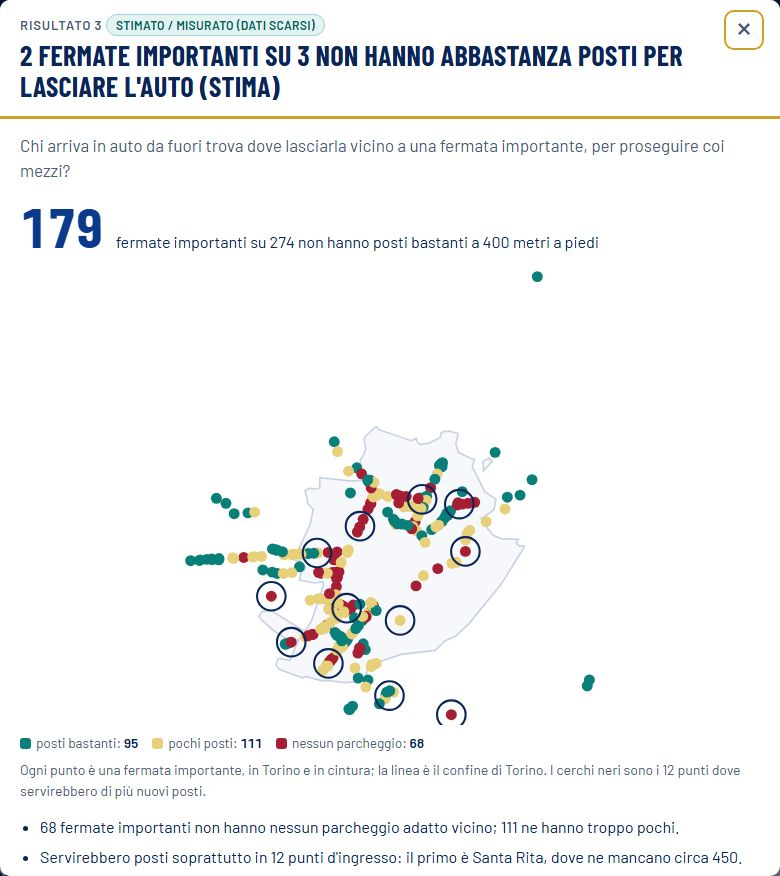
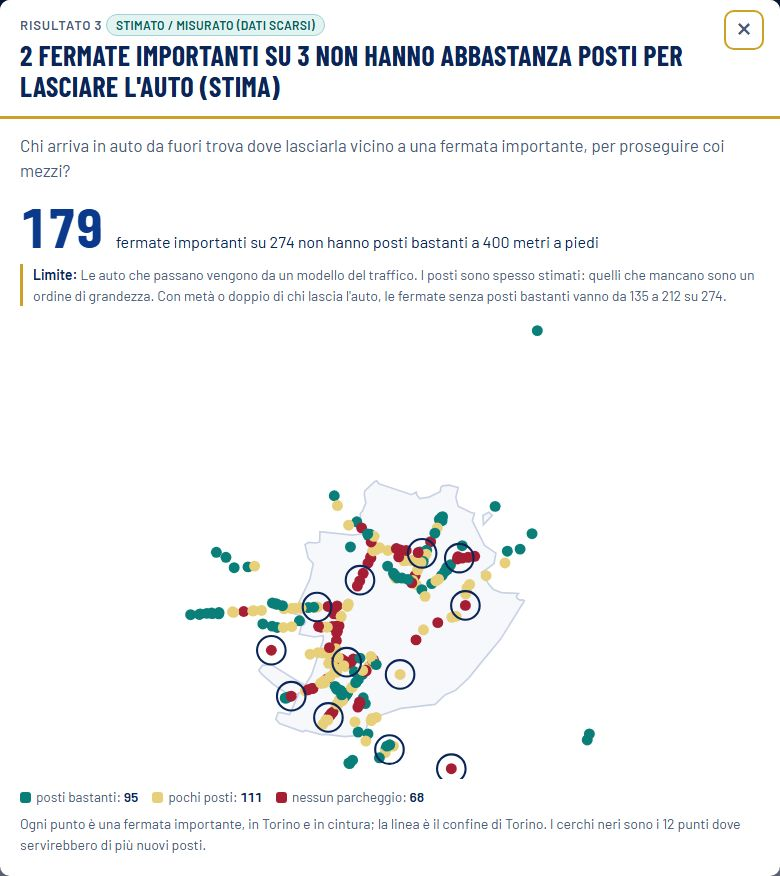
L10: limite visibile, periodo nel piede, contatori coerenti, distacco nella gara, barre uguali, cursore in oro, riquadri 3+2, colori in METODO, via Condividi

diff --git a/risultati.html b/risultati.html
@@ -105,7 +105,7 @@ function etichetta(s){
 function mostraGalleria(){
   const g = $("galleria");
   if(!schede.length){
-    g.innerHTML = `<div class="vuoto" style="grid-column:1/-1">${T("Nessun risultato trovato.", "No results found.")}</div>`;
+    g.innerHTML = `<div class="vuoto" style="flex:1 1 100%">${T("Nessun risultato trovato.", "No results found.")}</div>`;
     return;
   }
   g.innerHTML = schede.map((s, i) => {
@@ -128,16 +128,24 @@ const TONO_COL = {verde:"var(--vr-verde)", rosso:"var(--vr-rosso)", giallo:"var(
 const TONO_TESTO = {verde:"var(--su-verde)", rosso:"var(--su-rosso)", giallo:"var(--su-giallo)", blu:"var(--su-giallo)", arancio:"var(--su-giallo)"};
 const PALETTE_PILA = ["var(--neu-blu)", "var(--neu-arancio)", "var(--pila-3)", "var(--pila-4)", "var(--pila-5)"];
 
+/* testo del numero di una barra, e larghezza (in caratteri) della colonna dei numeri: la stessa in tutte le righe del grafico */
+function testoValore(g, v){
+  const sep = g.forbice ? " – " : " → ";
+  return v.testo ? esc(v.testo)
+    : (typeof v.prima === "number" ? conUnita(v.prima, g.unita === "%" ? "%" : "") + sep : "") + conUnita(v.valore, g.unita === "%" ? "%" : "");
+}
+function larghezzaValori(g, voci){
+  return Math.max(3, ...voci.map(v => testoValore(g, v).replace(/&[a-z#0-9]+;/g, "x").length));
+}
 function graficoBarre(g){
   const voci = g.voci || [];
   const max = g.max || Math.max(1, ...voci.flatMap(v => [Math.abs(v.valore||0), Math.abs(v.prima||0)]));
+  const larghezza = g.larghezza || larghezzaValori(g, voci);
   const righe = voci.map(v => {
     const pct = x => Math.max(1.5, Math.abs(x) / max * 100);
     const haPrima = typeof v.prima === "number";
-    const sep = g.forbice ? " – " : " → ";
-    const val = v.testo ? esc(v.testo)
-      : (haPrima ? conUnita(v.prima, g.unita === "%" ? "%" : "") + sep : "") + conUnita(v.valore, g.unita === "%" ? "%" : "");
-    return `<div class="barra-riga">
+    const val = testoValore(g, v);
+    return `<div class="barra-riga" style="--cv:${Math.ceil(larghezza * 1.12)}ch">
       <span class="barra-etichetta" title="${esc(v.label)}">${v.link ? `<a href="${esc(v.link)}" class="barra-link">${esc(v.label)}</a>` : esc(v.label)}</span>
       <span class="barra-traccia">
         ${haPrima ? `<span style="width:${pct(v.prima)}%;background:var(--neu-blu-chiaro)"></span>` : ""}
@@ -181,7 +189,8 @@ function unitaHtml(u){
 
 /* barre a gruppi: un titolo per gruppo (es. fascia) e sotto le sue barre (es. le due stime), tutte sulla stessa scala */
 function graficoBarreGruppi(g){
-  return (g.gruppi || []).map(gr => `<div class="etichetta-gruppo">${esc(gr.label)}</div>` + graficoBarre({voci: gr.voci, unita: g.unita, max: g.max})).join("");
+  const tuttiValori = larghezzaValori(g, (g.gruppi || []).flatMap(gr => gr.voci || []));
+  return (g.gruppi || []).map(gr => `<div class="etichetta-gruppo">${esc(gr.label)}</div>` + graficoBarre({voci: gr.voci, unita: g.unita, max: g.max, larghezza: tuttiValori})).join("");
 }
 
 function graficoPila(g){
@@ -275,6 +284,12 @@ function grafico(g){
 function elenco(arr, tag){ return Array.isArray(arr) && arr.length ? `<${tag}>${arr.map(x => `<li>${esc(x)}</li>`).join("")}</${tag}>` : ""; }
 function parte(titolo, html){ return html ? `<details class="parte"><summary>${titolo}</summary>${html}</details>` : ""; }
 
+/* una riga di limite sotto il numero grande: il primo dei limiti della scheda (lo script della scheda lo mette in testa) */
+function limiteVisibile(f){
+  const l = Array.isArray(f.limiti) && f.limiti[0];
+  return l ? `<p class="limite-vis"><b>${T("Limite", "Limit")}:</b> ${esc(l)}</p>` : "";
+}
+
 let corrente = -1;
 function apri(i){
   corrente = i;
@@ -282,7 +297,7 @@ function apri(i){
   $("finMeta").innerHTML = `${T("Risultato", "Result")} ${esc(numeroDi(s))} ${etichetta(s)}`;
   $("finTitolo").textContent = f.titolo;
   const mappa = `<div class="azioni">${f.mappa
-    ? `<a class="btn primario" href="mappa_torino.html#tema=${encodeURIComponent(f.mappa.id)}${f.mappa.vista ? "&vista=" + encodeURIComponent(f.mappa.vista) : ""}">${T("Vedi sulla mappa", "See on the map")}</a>` : ""}<button type="button" class="btn" id="finCondividi">${T("Condividi", "Share")}</button></div>`;
+    ? `<a class="btn primario" href="mappa_torino.html#tema=${encodeURIComponent(f.mappa.id)}${f.mappa.vista ? "&vista=" + encodeURIComponent(f.mappa.vista) : ""}">${T("Vedi sulla mappa", "See on the map")}</a>` : ""}</div>`;
   const criteri = Array.isArray(f.criteri) && f.criteri.length
     ? `<div class="sottotitolo">${T("I criteri", "The criteria")}</div><table class="param">${f.criteri.map(c => `<tr><td>${esc(c[0])}</td><td>${esc(c[1])}</td></tr>`).join("")}</table>` : "";
   const confronto = Array.isArray(f.confronto) && f.confronto.length
@@ -295,18 +310,13 @@ function apri(i){
   $("finCorpo").innerHTML =
     `<p class="domanda">${esc(f.domanda)}</p>` +
     `<div class="grande"><span class="val"${attrConta(f.numero)}>${valoreGrande(f.numero)}</span><span class="txt">${dopoGrande(f.numero)}${esc(f.numero.testo)}</span></div>` +
+    limiteVisibile(f) +
     figura +
     elenco(f.punti, "ul").replace("<ul>", '<ul class="punti">') +
     grafico(f.principale) + mappa +
     altri + extra +
     parte(T("Come l'abbiamo calcolato e limiti", "How we calculated it, and limits"),
           elenco(f.calcolo, "ol") + confronto + criteri + `<div class="sottotitolo">${T("Limiti", "Limits")}</div>` + elenco(f.limiti, "ul"));
-  // «Condividi»: copia l'indirizzo della pagina del risultato (r/N.html), quella con l'anteprima per i social
-  $("finCondividi").addEventListener("click", async () => {
-    const b = $("finCondividi"), url = new URL("r/" + numeroDi(s) + ".html", location.href).href;
-    try { await navigator.clipboard.writeText(url); b.textContent = T("Link copiato", "Link copied"); setTimeout(() => { b.textContent = T("Condividi", "Share"); }, 2200); }
-    catch(e){ window.prompt(T("Copia questo link", "Copy this link"), url); }
-  });
   const d = $("finestra");
   if(!d.open) d.showModal();
   d.scrollTop = 0;

diff --git a/assets/stile.css b/assets/stile.css
@@ -82,8 +82,12 @@ h2.sezione{font-size:15px;letter-spacing:.1em;text-transform:uppercase;color:var
 .pill.misurato{color:var(--pill-misurato);border-color:var(--pill-misurato-linea);background:var(--pill-misurato-bg)}
 
 /* riquadri della home e schede dell'elenco */
-.riquadri,.galleria{display:grid;grid-template-columns:repeat(2,minmax(0,1fr));gap:14px;margin-bottom:22px}
-@media (max-width:720px){ .riquadri,.galleria{grid-template-columns:1fr} }
+/* tre per riga; con 5 riquadri 3 + 2 centrati, con 6 tre + tre */
+.riquadri,.galleria{display:flex;flex-wrap:wrap;justify-content:center;gap:14px;margin-bottom:22px}
+.riquadri>*,.galleria>*{flex:0 1 calc((100% - 28px) / 3);min-width:0}
+@media (max-width:980px){ .riquadri>*,.galleria>*{flex-basis:calc((100% - 14px) / 2)} }
+@media (max-width:720px){ .riquadri>*,.galleria>*{flex-basis:100%} }
+input[type=range]{accent-color:var(--oro)}
 .riquadro,.scheda{box-sizing:border-box;display:flex;flex-direction:column;gap:8px;text-decoration:none;color:inherit;text-align:left;font:inherit;cursor:pointer;
   background:var(--card);border:1px solid var(--line);border-top:5px solid var(--oro);border-radius:8px;padding:16px 18px;box-shadow:0 2px 10px var(--ombra);transition:box-shadow .15s,border-color .15s}
 .riquadro:hover,.riquadro:focus-visible,.scheda:hover,.scheda:focus-visible{border-color:var(--accent);box-shadow:0 4px 18px var(--ombra)}
@@ -113,6 +117,8 @@ dialog::backdrop{background:rgba(5,13,32,.62)}
 .domanda{margin:0 0 14px;color:var(--muted);font-size:17px}
 .fin-corpo .grande{display:flex;align-items:baseline;gap:12px;margin:0 0 12px;flex-wrap:wrap}
 .fin-corpo .grande .val{font:700 56px/1 var(--font-titoli);color:var(--accent);white-space:nowrap;font-variant-numeric:tabular-nums}
+.fin-corpo .limite-vis{margin:-2px 0 14px;font-size:14px;color:var(--muted);border-left:3px solid var(--oro);padding-left:10px}
+.fin-corpo .limite-vis b{color:var(--ink)}
 .fin-corpo .grande .txt{font-size:16px;color:var(--ink);flex:1 1 220px}
 .punti{margin:14px 0 6px;padding-left:20px}
 .punti li{margin:6px 0}
@@ -130,7 +136,7 @@ details.parte p{margin:6px 0}
 .grafico h5{margin:0 0 10px;font-size:17px;text-transform:uppercase;letter-spacing:.02em}
 .grafico svg{display:block;width:100%;height:auto}
 .grafico .nota{font-size:13px;color:var(--muted);margin-top:8px}
-.barra-riga{display:grid;grid-template-columns:minmax(90px,38%) 1fr auto;align-items:center;gap:8px;margin:6px 0;font-size:14px}
+.barra-riga{display:grid;grid-template-columns:minmax(90px,34%) minmax(30px,1fr) var(--cv,auto);align-items:center;gap:8px;margin:6px 0;font-size:14px}
 .barra-etichetta{color:var(--muted);line-height:1.25;overflow-wrap:anywhere}
 .barra-link{color:var(--accent);text-decoration:none}
 .barra-link:hover,.barra-link:focus-visible{text-decoration:underline}

diff --git a/data/schede_risultati.js b/data/schede_risultati.js
@@ -239,7 +239,7 @@ window.SCHEDE_RISULTATI = [
    "scripts/21_risultato1_vuoti.py",
    "scripts/22_risultato1_candidati.py"
   ],
-  "generato": "2026-10-23T23:32:04+00:00",
+  "generato": "2026-10-23T23:39:35+00:00",
   "avviso": [
    "Dati [STIMATO] — solo comune di Torino",
    "Distanze a piedi sulla rete stradale (15 min a 80 m/min) su 848.748 residenti (censimento 2021). Servizi dal catalogo comunale: la cintura non è confrontabile (manca il dato, non il servizio). I punti nuovi sono ipotesi di posizione, calcolate gruppo per gruppo: non si sommano tra gruppi e non tengono conto di costi o spazi disponibili."
@@ -1356,7 +1356,7 @@ window.SCHEDE_RISULTATI = [
    "docs/rapporti/RAPPORTO_RISULTATO9_ATTESA.txt",
    "scripts/70_risultato9_attesa.py"
   ],
-  "generato": "2026-10-23T23:32:04+00:00",
+  "generato": "2026-10-23T23:39:35+00:00",
   "avviso": [
    "Dati [MISURATO] — pochi giorni",
    "Arrivi misurati con il GPS dei mezzi GTT raccolto dal Raspberry Pi, 2026-10-10 - 2026-10-22: il GPS c'è per il 80% dei passaggi programmati delle corse viste (prima si usava il feed GTT, che sottostima i ritardi: confronto nella scheda). Giorni non tutti interi e solo linee urbane viste dal GPS: vedi i limiti."
@@ -2596,7 +2596,7 @@ window.SCHEDE_RISULTATI = [
    "scripts/84_risultato6_parcheggi.py",
    "data/processed/risultato6_v2/mappa_r6.json"
   ],
-  "generato": "2026-10-23T23:32:04+00:00",
+  "generato": "2026-10-23T23:39:35+00:00",
   "avviso": [
    "Come leggere i tag. ",
    "[MISURATO] = misura vera, fatta dai sensori del sistema 5T. [STIMATO] = calcolo nostro su dati veri, non una misura diretta. [DATI SCARSI] = pochi dati, da prendere con cautela."
@@ -8279,7 +8279,7 @@ window.SCHEDE_RISULTATI = [
    "docs/rapporti/RAPPORTO_RISULTATO8_TRAFFICO_TP_V2.txt",
    "data/processed/risultato8_traffico_tp_v2.json"
   ],
-  "generato": "2026-10-23T23:32:05+00:00",
+  "generato": "2026-10-23T23:39:35+00:00",
   "avviso": [
    "Dati [STIMATO] (traffico) / [MISURATO] (sensori 5T) / [PROGRAMMATO] (orari GTT)",
    "Traffico stimato con un modello tarato su 22 sensori: errore tipico ±28%. Trasporto pubblico = fermate con almeno 4 passaggi all'ora entro 300 m o metro entro 600 m."
@@ -15000,7 +15000,7 @@ window.SCHEDE_RISULTATI = [
    "docs/rapporti/RAPPORTO_CASE_FRAGILITA_SERVIZI.txt",
    "data/processed/case_fragilita_servizi.json"
   ],
-  "generato": "2026-10-23T23:32:05+00:00",
+  "generato": "2026-10-23T23:39:35+00:00",
   "avviso": [
    "Dati [STIMATO] (servizi, indice) / [CENSIMENTO] (abitanti). Differenza fra zone, non effetto causale."
   ],
@@ -16399,3 +16399,4 @@ window.SCHEDE_RISULTATI = [
   "_nome": "risultato10_riepilogo_mappa.json"
  }
 ];
+window.SCHEDE_PERIODO = {"da": "2026-10-09", "a": "2026-10-22"};

diff --git a/assets/gara.js b/assets/gara.js
@@ -70,17 +70,19 @@
       var o = l0.ore[Math.min(k0, l0.ore.length - 1)]; Object.keys(o).forEach(function(q){ l[q] = o[q]; });
     }
     var t = T(), cs = corsie(l), H = 20 + cs.length * 36;
-    var maxMin = Math.max.apply(null, cs.map(function(c){ return c.min; }));
+    var maxMin = Math.max.apply(null, cs.map(function(c){ return c.min; })), minMin = Math.min.apply(null, cs.map(function(c){ return c.min; }));
+    var distacco = Math.round(maxMin) - Math.round(minMin);      // scritto all'arrivo, accanto al mezzo piu' lento
     var righe = cs.map(function(c, j){
       var y = 22 + j * 36;
+      var scia = distacco >= 1 && c.min === maxMin ? '<tspan class="gara-distacco" x="' + (FINE + 8) + '" dy="15" style="font-size:13px;font-weight:700">+' + n(distacco) + ' ' + t.min + '</tspan>' : "";
       var base = '<text x="' + VIA + '" y="' + (y - 5) + '">' + esc(c.nome) + '</text><line class="gara-strada" x1="' + VIA + '" x2="' + FINE + '" y1="' + (y + 23) + '" y2="' + (y + 23) + '"/>';
       if(ridotto){
         var w = Math.max(6, c.min / maxMin * (FINE - VIA));
         return base + '<rect class="barra-ferma' + (c.k.indexOf("auto") === 0 ? " auto" : "") + '" x="' + VIA + '" y="' + (y + 3) + '" width="' + w.toFixed(1) + '" height="16" rx="3"' + (c.k.indexOf("chiara") > 0 ? ' opacity=".5"' : "") + '/>'
-          + '<text class="gara-min" style="opacity:1" x="' + (FINE + 8) + '" y="' + (y + 16) + '">' + n(c.min) + ' ' + t.min + '</text>';
+          + '<text class="gara-min" style="opacity:1" x="' + (FINE + 8) + '" y="' + (y + 16) + '">' + n(c.min) + ' ' + t.min + scia + '</text>';
       }
       return base + '<g class="gv ' + c.k + '" data-min="' + c.min + '" transform="translate(' + VIA + ' ' + (y + 1) + ')">' + c.forma + '</g>'
-        + '<text class="gara-min" x="' + (FINE + 8) + '" y="' + (y + 16) + '">' + n(c.min) + ' ' + t.min + '</text>';
+        + '<text class="gara-min" x="' + (FINE + 8) + '" y="' + (y + 16) + '">' + n(c.min) + ' ' + t.min + scia + '</text>';
     }).join("");
     // le due scritte in alto (partenza a sinistra, arrivo a destra) non devono toccarsi: stima 0,6 x corpo x caratteri
     var testoDa = t.da + " " + l.nome + (l.ora && l0.ore.length > 1 ? " · " + l.ora : ""), arrivoTesto = l.arrivo || t.centro;

diff --git a/assets/sito.js b/assets/sito.js
@@ -81,21 +81,27 @@
     els.forEach(function(e){ if(!e.dataset.fatto) io.observe(e); });
   }
 
-  /* «dati aggiornati al …»: la data più recente fra le schede */
+  /* «Dati dal 09/10 al 22/10/2026»: il periodo fisso dei dati (comuni.PERIODO, scritto da scripts/schede_risultati.py in data/schede_risultati.js) */
   function dataAggiornamento(){
     var el = document.getElementById("datiAggiornati");
-    var s = Array.isArray(window.SCHEDE_RISULTATI) ? window.SCHEDE_RISULTATI : [];
-    var d = s.map(function(x){ return x && x.generato; }).filter(Boolean).sort().pop();
-    if(el && d){
-      var m = /^(\d{4})-(\d{2})-(\d{2})/.exec(d);
-      if(m) el.textContent = T("Dati aggiornati al ", "Data updated on ") + m[3] + "/" + m[2] + "/" + m[1] + ".";
-    }
+    var p = window.SCHEDE_PERIODO;
+    if(!el || !p) return;
+    var da = /^(\d{4})-(\d{2})-(\d{2})$/.exec(p.da || ""), a = /^(\d{4})-(\d{2})-(\d{2})$/.exec(p.a || "");
+    if(da && a) el.textContent = T("Dati dal ", "Data from ") + da[3] + "/" + da[2] + T(" al ", " to ") + a[3] + "/" + a[2] + "/" + a[1] + ".";
+  }
+
+  /* giorni dalla raccolta: dal primo giorno (INIZIO_RACCOLTA, nel contatore dei dati) a oggi; la stessa regola per home e progetto */
+  function giorniRaccolta(c){
+    var m = c && /^(\d{4})-(\d{2})-(\d{2})$/.exec(c.inizio_raccolta || c.dal || "");
+    if(!m) return null;
+    var oggi = new Date(), d0 = new Date(+m[1], +m[2] - 1, +m[3]);
+    return Math.max(1, Math.floor((new Date(oggi.getFullYear(), oggi.getMonth(), oggi.getDate()) - d0) / 864e5) + 1);
   }
 
   function avvia(){
     document.querySelectorAll(".lingua button").forEach(function(b){ b.addEventListener("click", function(){ impostaLingua(b.dataset.l); }); });
     traduciStatico();
   }
-  window.Sito = {esc: esc, formattaNumero: formattaNumero, contaSu: contaSu, osserva: osserva, dataAggiornamento: dataAggiornamento, ridotto: ridotto,
+  window.Sito = {esc: esc, formattaNumero: formattaNumero, contaSu: contaSu, osserva: osserva, dataAggiornamento: dataAggiornamento, giorniRaccolta: giorniRaccolta, ridotto: ridotto,
                  T: T, lingua: function(){ return lang; }, impostaLingua: impostaLingua, avvia: avvia};
 })();

diff --git a/progetto.html b/progetto.html
@@ -200,7 +200,7 @@ html:not(.js) .colfig{grid-column:1;grid-row:2}
     var c = P && P.contatore, d = P && P.doppio, r = P && P.ritardi;
     var milioni = c && c.passaggi >= 1e6;
     var v = {
-      "sistema.giorni": c && num(c.giorni),
+      "sistema.giorni": c && num(Sito.giorniRaccolta(c)),
       "sistema.sensori": P && num(P.sensori_5t),
       "sistema.passaggi": c && (milioni ? num(Math.round(c.passaggi / 1e5) / 10) + T(" milioni", " million") : num(c.passaggi)),
       "doppio.residenti": d && num(d.residenti), "doppio.n_su": d && num(d.n_su),
@@ -235,7 +235,7 @@ html:not(.js) .colfig{grid-column:1;grid-row:2}
     var passi = [
       [T("Sensori e GPS", "Sensors and GPS"), T("bus e tram, " + (P ? P.sensori_5t : "") + " sensori del traffico", "buses and trams, " + (P ? P.sensori_5t : "") + " traffic sensors")],
       [T("Raspberry Pi", "Raspberry Pi"), T("legge Torino ogni minuto", "reads Turin every minute")],
-      [T("Storico", "History"), c ? T(c.giorni + " giorni di dati", c.giorni + " days of data") : ""],
+      [T("Storico", "History"), c ? T(Sito.giorniRaccolta(c) + " giorni di dati", Sito.giorniRaccolta(c) + " days of data") : ""],
       [T("Script", "Scripts"), T("calcoli, controlli, risultati", "calculations, checks, results")],
       [T("Pagine", "Pages"), T("mappa e schede dei risultati", "map and result cards")]
     ];

diff --git a/assets/mezzi.js b/assets/mezzi.js
@@ -14,11 +14,9 @@
     var el = document.getElementById("contatore"); if(!el) return;
     var c = H && H.contatore; if(!c){ el.hidden = true; return; }
     var en = window.Sito && Sito.lingua() === "en";
-    // giorni dal primo giorno della raccolta a oggi: la raccolta continua («e continuiamo»)
-    var m = /^(\d{4})-(\d{2})-(\d{2})$/.exec(c.inizio_raccolta || c.dal || "");
-    if(!m){ el.hidden = true; return; }
-    var oggi = new Date(), d0 = new Date(+m[1], +m[2] - 1, +m[3]);
-    var giorni = Math.max(1, Math.floor((new Date(oggi.getFullYear(), oggi.getMonth(), oggi.getDate()) - d0) / 864e5) + 1);
+    // giorni dal primo giorno della raccolta a oggi (Sito.giorniRaccolta, come in progetto.html): la raccolta continua («e continuiamo»)
+    var giorni = Sito.giorniRaccolta(c);
+    if(!giorni){ el.hidden = true; return; }
     var n = '<b class="val" data-valore="' + giorni + '">' + Sito.formattaNumero(giorni) + '</b>';
     el.innerHTML = en
       ? "For " + n + " days we have been collecting, minute by minute, data on Turin's buses, trams and traffic, and we keep going: to understand who goes where, and how."

diff --git a/scripts/schede_risultati.py b/scripts/schede_risultati.py
@@ -28,6 +28,7 @@ import sys
 from pathlib import Path
 
 sys.path.insert(0, str(Path(__file__).resolve().parent))   # il pacchetto schede/ sta accanto a questo file
+from comuni import PERIODO  # noqa: E402  (periodo fisso dei dati, per il piede delle pagine)
 from schede import comune  # noqa: E402
 from schede.comune import NASCOSTE, RADICE, controlla_forma, leggi  # noqa: E402
 from schede.traduci import traduci_forma  # noqa: E402
@@ -81,7 +82,9 @@ def main():
         print(f"{file}: {s['titolo']} - {sum(len(sc['numeri']) for sc in s['scenari'])} numeri, "
               f"{len(s.get('grafici', []))} grafici")
     comune.OUT_JS.write_text("// generato da scripts/schede_risultati.py - non modificare a mano\n"
-                      "window.SCHEDE_RISULTATI = " + json.dumps(schede, ensure_ascii=False, indent=1) + ";\n",
+                      "window.SCHEDE_RISULTATI = " + json.dumps(schede, ensure_ascii=False, indent=1) + ";\n"
+                      # periodo fisso dei dati (comuni.PERIODO), per il piede delle pagine: dal primo all'ultimo giorno fra i tre periodi
+                      "window.SCHEDE_PERIODO = " + json.dumps({"da": min(p[0] for p in PERIODO.values()), "a": max(p[1] for p in PERIODO.values())}) + ";\n",
                       encoding="utf-8")
     try:
         mostra = comune.OUT_JS.relative_to(RADICE)

diff --git a/sviluppo/piani/ESITO_L10.md b/sviluppo/piani/ESITO_L10.md
@@ -1,0 +1,17 @@
+# Esito del giro L10 (24/10/2026): home e schede, ritocchi
+
+Fatto, voce per voce (analisi critica 3.3-3.5, 3.8-3.11, 1.13; regole nel blocco L10 di PROMPT_LAVORI.md):
+
+- **3.11 Limite visibile.** Sotto il numero grande di ogni scheda (`risultati.html`, funzione `limiteVisibile`) c'è una riga «Limite: …» con il primo dei limiti della scheda. La scelta la fa il codice, non a mano: i limiti di ogni scheda sono già ordinati dal più importante (il primo dell'elenco), quindi nessuna scheda è stata riordinata. Alcuni primi limiti sono lunghi (scheda 4, scheda 3): si accorciano nello script della scheda se Leo lo vuole.
+- **3.9 Piè di pagina.** «Dati dal 09/10 al 22/10/2026» al posto di «Dati aggiornati al»: il periodo è il più largo fra i tre di `comuni.PERIODO`, scritto da `schede_risultati.py` in `data/schede_risultati.js` (`window.SCHEDE_PERIODO`), letto da `Sito.dataAggiornamento`. Vale su home, risultati e progetto, in italiano e in inglese.
+- **3.10 Contatori.** Home e progetto calcolano i giorni con la stessa funzione `Sito.giorniRaccolta` (da `inizio_raccolta`, 3/10/2026, a oggi); i passaggi GPS vengono dallo stesso file (`contatore()` in `schede/home.py`). Prima il progetto contava dal primo all'ultimo giorno con dati.
+- **3.5 Gara.** All'arrivo, accanto al mezzo più lento, compare il distacco scritto («+5 min», in grassetto sotto il suo tempo); vale anche per la versione senza movimento e per le 4 ore. Non compare se il distacco è sotto 1 minuto.
+- **3.4 Barre.** La colonna del numero ha la stessa larghezza in tutte le righe di un grafico (e in tutti i gruppi dei grafici a gruppi): le tracce hanno la stessa lunghezza. Controllato nel DOM sulla scheda 4: una sola larghezza per grafico, nessun numero tagliato.
+- **3.8 Cursore.** `input[type=range]{accent-color:var(--oro)}` in `assets/stile.css`.
+- **3.3 Riquadri.** Tre per riga, con 5 riquadri 3 + 2 centrati (con 6: 3 + 3); 2 per riga sotto 980 px, 1 sotto 720 px.
+- **1.13 Colori in `docs/METODO.md`.** La sezione «Colori» dice ora verde acqua → granata e blu → oro (stile «Torino»). Il grafico metro/prezzi era già stato tolto in L9.
+- **«Condividi» e «copia il link».** Tolto il pulsante da `risultati.html` con il suo codice. `git grep` fuori da `sviluppo/` non trova più «Condividi», «Link copiato», «Copia questo link», `finCondividi`. Restano **solo** `copiaLink` e `costruisciLink` nella mappa (`mappa_torino.html`, `scripts/mappa_template.html`): le toglie L11, che riscrive la mappa.
+
+## Controlli
+pyflakes zero; `node --check assets/*.js` senza errori; `schede_risultati.py` senza ATTENZIONE; `prova_pagine.py --playwright` 0 errori su 20 pagine. Verifica nel DOM (server locale, senza guardare la grafica): limite visibile presente, piè di pagina col periodo, nessun «Condividi», «+5 min» nella gara della scheda 4, tracce uguali, riquadri a 2+2+1 centrati alla larghezza del riquadro del browser (a 3 colonne sui monitor larghi).
+Non fatto: controllo grafico (lo fa Leo).

diff --git a/docs/METODO.md b/docs/METODO.md
@@ -55,6 +55,4 @@ si mostra solo con l'indice dedicato, mai per nazionalità.
 
 ## Colori
 
-Uguali in mappa e schede: gradiente «bene/male» = **verde → rosso**; quantità neutre (abitanti, spostamenti,
-pendolari, prezzi) = **blu → arancione smorzati**; categorie = un colore per gruppo. Le legende scrivono sempre i
-numeri (daltonismo).
+Stile «Torino» (22/10/2026), uguale in mappa e schede; i colori stanno solo in `assets/stile.css` (la mappa copia le variabili). Gradiente «bene/male» = **verde acqua → granata**; quantità neutre (abitanti, spostamenti, pendolari, prezzi) = **blu → oro**; categorie = un colore per gruppo (blu e oro). Blu e oro sono i colori del sito (barra in alto, titoli, cursori); c'è anche la versione scura. Le legende scrivono sempre i numeri (daltonismo).
